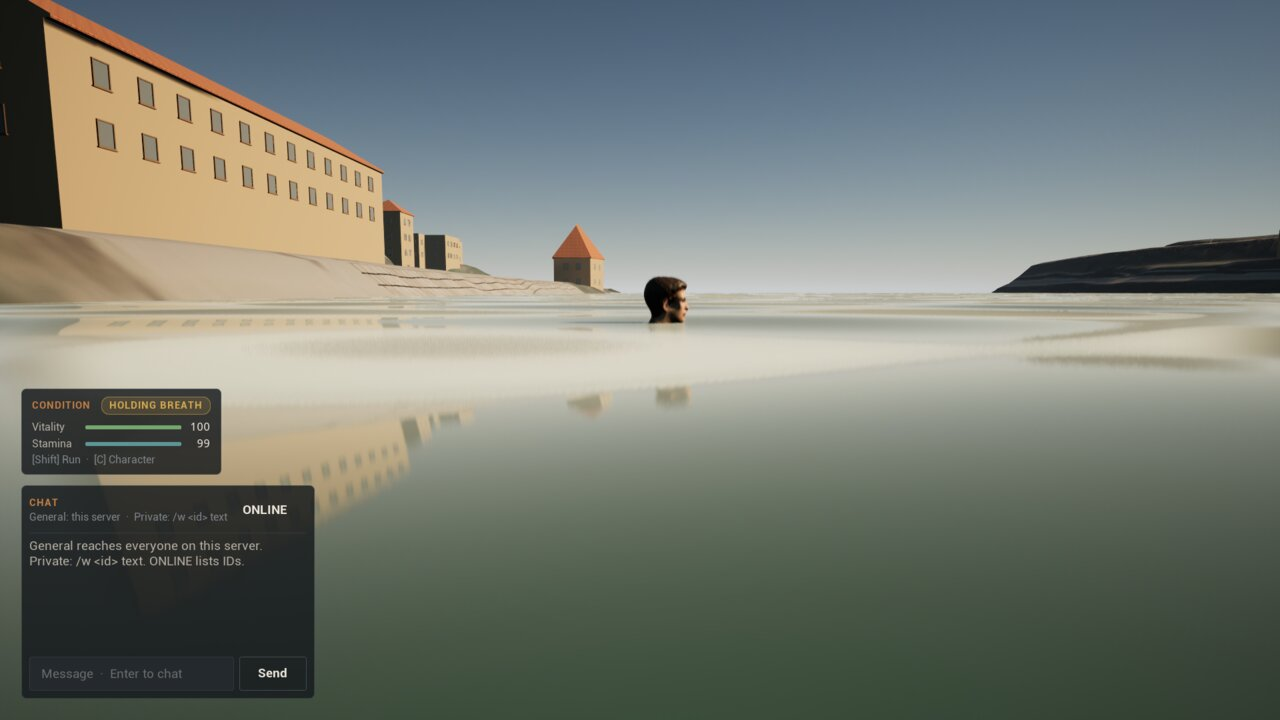
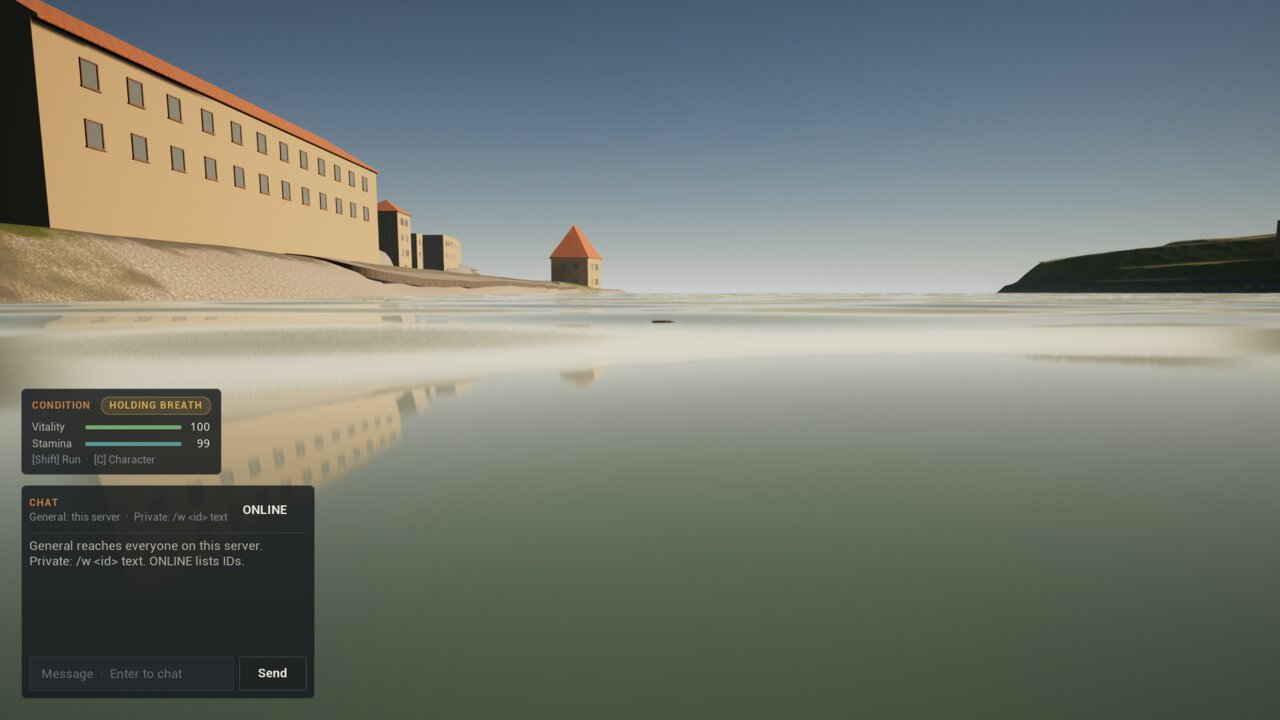
fix: the drawn legs follow the swim clips; key the IK foot bones (ADR-042)
The playtest swimmer still looked as if it were drowning. The clips were
right, the drawn pose was not: ABP_Unarmed's foot IK runs after DefaultSlot
in every mode but falling and pulls each foot to ik_foot_l/r, which the
generated clips never keyed, so the legs stood under a body bent at the waist
(feet 85 cm under the pelvis in the running game). The opaque river hid it.

- MarburgumGodotClip::FollowFeetWithIkBones keys the IK foot bones onto the
  feet the clip draws; A_Swim and A_SwimTread are regenerated with it.
- Swim smoke: drawn bone heights at every event, the stroke's feet within
  40 cm of the pelvis and treading's more than 60 cm under it, and captures
  with the river sheet hidden. Passes both phases in editor mode.

diff --git a/Source/MarburgumIIClient/Private/MarburgumSwimSmokeSubsystem.cpp b/Source/MarburgumIIClient/Private/MarburgumSwimSmokeSubsystem.cpp
@@ -1,6 +1,9 @@
 #include "MarburgumSwimSmokeSubsystem.h"
 
+#include "Components/CapsuleComponent.h"
+#include "Components/SkeletalMeshComponent.h"
 #include "Engine/GameInstance.h"
+#include "Engine/StaticMeshActor.h"
 #include "Engine/World.h"
 #include "EngineUtils.h"
 #include "HAL/FileManager.h"
@@ -34,6 +37,10 @@ namespace MarburgumSwimSmoke
     // Swim speed is 1.1 m/s; generous for the start of a stroke and frame timing.
     constexpr double SwimMin = 0.85;
     constexpr double SwimMax = 1.35;
+    // Feet against pelvis in the drawn pose (ADR-042): lying along the water the clip keeps them within
+    // about 20 cm of it; a standing stance has them about 90 cm under it.
+    constexpr double LyingFeetUnderPelvisMaxCm = 40.0;
+    constexpr double UprightFeetUnderPelvisMinCm = 60.0;
     // A minute of breath per bar: ten seconds under costs about 16.7 points.
     constexpr double UnderSeconds = 10.0;
     constexpr int32 UnderCostMin = 13;
@@ -229,6 +236,52 @@ void UMarburgumSwimSmokeSubsystem::Report(const TCHAR* Event, double Now)
         Moving && Moving->IsSubmerged() ? 1 : 0, Moving ? Moving->GetStamina() : -1.f, Condition.bSwimming ? 1 : 0,
         Condition.bSubmerged ? 1 : 0, Condition.Stamina, Condition.Vitality, Condition.RecoverySeconds,
         Character && Character->IsSwimClipPlaying() ? 1 : 0, Character && Character->IsTreadingWater() ? 1 : 0, *HudState());
+    if (Character)
+    {
+        // The drawn pose, after the whole animation graph: bone heights above the capsule's feet. Lying
+        // along the water the feet are about as high as the pelvis; upright they are a metre under it.
+        const USkeletalMeshComponent* Mesh = Character->GetMesh();
+        const double Feet = At.Z - Character->GetCapsuleComponent()->GetScaledCapsuleHalfHeight();
+        const auto Height = [Mesh, Feet](const TCHAR* Bone) { return Mesh->GetBoneLocation(Bone).Z - Feet; };
+        MB2_SWIM_LOG("event=%s_pose pelvis=%.0f head=%.0f foot_l=%.0f foot_r=%.0f hand_l=%.0f", Event, Height(TEXT("pelvis")),
+            Height(TEXT("head")), Height(TEXT("foot_l")), Height(TEXT("foot_r")), Height(TEXT("hand_l")));
+    }
+}
+
+double UMarburgumSwimSmokeSubsystem::FeetUnderPelvisCm() const
+{
+    // The drawn pose after the whole animation graph, foot IK included (ADR-042).
+    const AMarburgumCharacter* Character = Body();
+    if (!Character)
+    {
+        return -1.0;
+    }
+    const USkeletalMeshComponent* Mesh = Character->GetMesh();
+    const double Feet = 0.5 * (Mesh->GetBoneLocation(TEXT("foot_l")).Z + Mesh->GetBoneLocation(TEXT("foot_r")).Z);
+    return Mesh->GetBoneLocation(TEXT("pelvis")).Z - Feet;
+}
+
+void UMarburgumSwimSmokeSubsystem::SetWaterSheetHidden(bool bHidden)
+{
+    // Evidence only: the river sheet is opaque, so the legs are drawn in a second capture without it.
+    // The sheet is the one wide static mesh whose top is the water surface.
+    UWorld* World = GetGameInstance() ? GetGameInstance()->GetWorld() : nullptr;
+    const UMarburgumCharacterMovement* Moving = Movement();
+    if (!World || !Moving)
+    {
+        return;
+    }
+    const float Surface = Moving->GetWaterSurfaceZ();
+    for (TActorIterator<AStaticMeshActor> It(World); It; ++It)
+    {
+        FVector Origin;
+        FVector Extent;
+        It->GetActorBounds(false, Origin, Extent);
+        if (FMath::Abs(Origin.Z + Extent.Z - Surface) < 10.0 && Extent.X > 2000.0 && Extent.Y > 2000.0 && Extent.Z < 50.0)
+        {
+            It->SetActorHiddenInGame(bHidden);
+        }
+    }
 }
 
 bool UMarburgumSwimSmokeSubsystem::Tick(float DeltaTime)
@@ -321,6 +374,8 @@ void UMarburgumSwimSmokeSubsystem::TickW(double Now)
         Expect(Condition.bSwimming && !Condition.bSubmerged, TEXT("server_swimmer_not_at_surface"));
         Expect(Character->IsSwimClipPlaying(), TEXT("swim_clip_not_playing"));
         Expect(!Character->IsTreadingWater(), TEXT("treading_while_swimming"));
+        // Lying along the water: the feet about as high as the pelvis, not a standing stance under it.
+        Expect(FeetUnderPelvisCm() < LyingFeetUnderPelvisMaxCm, FString::Printf(TEXT("legs_hanging=%.0f"), FeetUnderPelvisCm()));
         ExpectHud(TEXT("SWIMMING"), TEXT("swimming"));
         Shot(TEXT("swimming"));
         Advance(30, Now);
@@ -332,7 +387,19 @@ void UMarburgumSwimSmokeSubsystem::TickW(double Now)
             Local->SetControlRotation(FRotator(-6.f, 90.f, 0.f));
         }
         if (Now - StepSeconds < 0.6) return;
+        Report(TEXT("swimming_side"), Now);
         Shot(TEXT("swimming-side"));
+        Advance(33, Now);
+        return;
+    case 33:
+        // The same stroke with the river sheet hidden, so the legs show.
+        SetWaterSheetHidden(true);
+        if (Now - StepSeconds < 0.2) return;
+        Shot(TEXT("swimming-xray"));
+        Advance(34, Now);
+        return;
+    case 34:
+        SetWaterSheetHidden(false);
         Advance(3, Now);
         return;
     case 3:
@@ -351,7 +418,19 @@ void UMarburgumSwimSmokeSubsystem::TickW(double Now)
         }
         if (Now - StepSeconds < 0.5) return;
         Report(TEXT("treading"), Now);
+        // Upright: the feet hang under the pelvis.
+        Expect(FeetUnderPelvisCm() > UprightFeetUnderPelvisMinCm, FString::Printf(TEXT("not_upright=%.0f"), FeetUnderPelvisCm()));
         Shot(TEXT("treading"));
+        Advance(35, Now);
+        return;
+    case 35:
+        SetWaterSheetHidden(true);
+        if (Now - StepSeconds < 0.2) return;
+        Shot(TEXT("treading-xray"));
+        Advance(36, Now);
+        return;
+    case 36:
+        SetWaterSheetHidden(false);
         Advance(32, Now);
         return;
     case 32:

diff --git a/Source/MarburgumIIEditorTools/Private/MarburgumGodotClip.cpp b/Source/MarburgumIIEditorTools/Private/MarburgumGodotClip.cpp
@@ -418,4 +418,70 @@ namespace MarburgumGodotClip
                 Torso.X, Torso.Y, Torso.Z, ArmL.X, ArmL.Y, ArmL.Z, ArmR.X, ArmR.Y, ArmR.Z, LegL.X, LegL.Y, LegL.Z);
         }
     }
+
+    bool FollowFeetWithIkBones(const FReferenceSkeleton& Reference, int32 Frames, TMap<FName, TArray<FVector>>& Positions,
+        TMap<FName, TArray<FQuat>>& Rotations, TMap<FName, TArray<FVector>>& Scales, const TCHAR* LogTag)
+    {
+        const int32 BoneCount = Reference.GetRawBoneNum();
+        const TArray<FTransform>& LocalRest = Reference.GetRawRefBonePose();
+        const int32 IkRoot = Reference.FindRawBoneIndex(TEXT("ik_foot_root"));
+        const TPair<FName, FName> Feet[] = { { TEXT("foot_l"), TEXT("ik_foot_l") }, { TEXT("foot_r"), TEXT("ik_foot_r") } };
+        if (IkRoot == INDEX_NONE)
+        {
+            UE_LOG(LogMarburgumGodotClip, Error, TEXT("%s mannequin has no bone ik_foot_root"), LogTag);
+            return false;
+        }
+        for (const TPair<FName, FName>& Foot : Feet)
+        {
+            if (Reference.FindRawBoneIndex(Foot.Key) == INDEX_NONE || Reference.FindRawBoneIndex(Foot.Value) == INDEX_NONE)
+            {
+                UE_LOG(LogMarburgumGodotClip, Error, TEXT("%s mannequin has no bone %s or %s"), LogTag, *Foot.Key.ToString(),
+                    *Foot.Value.ToString());
+                return false;
+            }
+        }
+        // Any keys the IK bones had are replaced; they are written after every frame is read.
+        for (const TPair<FName, FName>& Foot : Feet)
+        {
+            Positions.Remove(Foot.Value);
+            Rotations.Remove(Foot.Value);
+            Scales.Remove(Foot.Value);
+        }
+        TMap<FName, TArray<FVector>> IkPositions;
+        TMap<FName, TArray<FQuat>> IkRotations;
+        for (int32 Frame = 0; Frame <= Frames; ++Frame)
+        {
+            // Component space at this frame: keyed bones take their keys, the rest their reference pose.
+            TArray<FTransform> Global;
+            Global.SetNum(BoneCount);
+            for (int32 Bone = 0; Bone < BoneCount; ++Bone)
+            {
+                const FName Name = Reference.GetBoneName(Bone);
+                FTransform Local = LocalRest[Bone];
+                if (const TArray<FQuat>* Keyed = Rotations.Find(Name))
+                {
+                    Local = FTransform((*Keyed)[Frame], Positions[Name][Frame], Scales[Name][Frame]);
+                }
+                const int32 Parent = Reference.GetRawParentIndex(Bone);
+                Global[Bone] = Parent == INDEX_NONE ? Local : Local * Global[Parent];
+            }
+            for (const TPair<FName, FName>& Foot : Feet)
+            {
+                const int32 Bone = Reference.FindRawBoneIndex(Foot.Value);
+                const int32 Parent = Reference.GetRawParentIndex(Bone);
+                const FTransform Local = Global[Reference.FindRawBoneIndex(Foot.Key)].GetRelativeTransform(Global[Parent]);
+                IkPositions.FindOrAdd(Foot.Value).Add(Local.GetLocation());
+                IkRotations.FindOrAdd(Foot.Value).Add(Local.GetRotation().GetNormalized());
+            }
+        }
+        for (const TPair<FName, FName>& Foot : Feet)
+        {
+            const FVector Scale = LocalRest[Reference.FindRawBoneIndex(Foot.Value)].GetScale3D();
+            Positions.Add(Foot.Value, IkPositions[Foot.Value]);
+            Rotations.Add(Foot.Value, IkRotations[Foot.Value]);
+            Scales.Add(Foot.Value, TArray<FVector>());
+            Scales[Foot.Value].Init(Scale, Frames + 1);
+        }
+        return true;
+    }
 }

diff --git a/Source/MarburgumIIEditorTools/Private/MarburgumSwimContentCommandlet.cpp b/Source/MarburgumIIEditorTools/Private/MarburgumSwimContentCommandlet.cpp
@@ -19,6 +19,7 @@
 #include "FileHelpers.h"
 #include "GameFramework/PhysicsVolume.h"
 #include "Landscape.h"
+#include "MarburgumGodotClip.h"
 #include "Misc/PackageName.h"
 #include "UObject/Package.h"
 
@@ -399,6 +400,12 @@ namespace
             }
         }
 
+        // The template's foot IK pulls each foot to its IK bone, so those bones follow the drawn feet (ADR-042).
+        if (!MarburgumGodotClip::FollowFeetWithIkBones(Reference, Frames, Positions, Rotations, Scales, TEXT("MB2SWIM")))
+        {
+            return false;
+        }
+
         UObject* Existing = nullptr;
         UPackage* Package = PreparePackage(Clip.Package, UAnimSequence::StaticClass(), Existing);
         UAnimSequence* Sequence = Cast<UAnimSequence>(Existing);
@@ -418,7 +425,7 @@ namespace
         Controller.RemoveAllBoneTracks(false);
         Controller.SetFrameRate(FFrameRate(FramesPerSecond, 1), false);
         Controller.SetNumberOfFrames(FFrameNumber(Frames), false);
-        for (const TPair<FName, FString>& Pair : MannequinToGodot)
+        for (const TPair<FName, TArray<FQuat>>& Pair : Rotations)
         {
             Controller.AddBoneCurve(Pair.Key, false);
             if (!Controller.SetBoneTrackKeys(Pair.Key, Positions[Pair.Key], Rotations[Pair.Key], Scales[Pair.Key], false))
@@ -440,7 +447,7 @@ namespace
             return false;
         }
         UE_LOG(LogMarburgumSwim, Display, TEXT("MB2SWIM saved %s frames=%d length=%.2fs tracks=%d"), Clip.Package, Frames,
-            Sequence->GetPlayLength(), MannequinToGodot.Num());
+            Sequence->GetPlayLength(), Rotations.Num());
 
         // Evidence: limb directions read back from the saved clip, in the original's model axes (x right,
         // y up, z back), to compare with the same directions computed from the original's own clip.
@@ -458,7 +465,7 @@ namespace
             for (int32 Bone = 0; Bone < BoneCount; ++Bone)
             {
                 FTransform Local = LocalRest[Bone];
-                if (MannequinToGodot.Contains(Reference.GetBoneName(Bone)))
+                if (Rotations.Contains(Reference.GetBoneName(Bone)))
                 {
                     Sequence->GetBoneTransform(Local, FSkeletonPoseBoneIndex(Bone), FAnimExtractContext(T), true);
                 }

diff --git a/Source/MarburgumIIEditorTools/Private/MarburgumGodotClip.h b/Source/MarburgumIIEditorTools/Private/MarburgumGodotClip.h
@@ -66,6 +66,17 @@ namespace MarburgumGodotClip
      */
     FVector SampleTimed(const TArray<FVector>& Keys, const TArray<double>& Times, double T);
 
+    /**
+     * Keys ik_foot_l and ik_foot_r onto the feet the clip draws (ADR-042). The template animation blueprint's
+     * foot IK (CR_Mannequin_FootIK) runs after the montage slot and pulls each foot to its IK bone; a clip
+     * that does not key those bones leaves them at the reference pose, under a standing body, so the legs
+     * are dragged down to a standing stance whatever the clip does. Positions, Rotations and Scales hold
+     * the clip's local keys per bone, Frames + 1 of each; a bone without keys is at its reference pose.
+     * Returns false (after logging under LogTag) when the skeleton lacks the bones.
+     */
+    bool FollowFeetWithIkBones(const FReferenceSkeleton& Reference, int32 Frames, TMap<FName, TArray<FVector>>& Positions,
+        TMap<FName, TArray<FQuat>>& Rotations, TMap<FName, TArray<FVector>>& Scales, const TCHAR* LogTag);
+
     /** Builds the clip on SK_Mannequin and saves it; nullptr (after logging under LogTag) on failure. */
     UAnimSequence* Build(const FClip& Clip, const TCHAR* LogTag);
 

diff --git a/Source/MarburgumIIClient/Public/MarburgumSwimSmokeSubsystem.h b/Source/MarburgumIIClient/Public/MarburgumSwimSmokeSubsystem.h
@@ -56,6 +56,8 @@ private:
     FString HudState() const;
     void ExpectHud(const TCHAR* Prefix, const TCHAR* What);
     void Advance(int32 Next, double Now);
+    void SetWaterSheetHidden(bool bHidden);
+    double FeetUnderPelvisCm() const;
     void Report(const TCHAR* Event, double Now);
     void Pass();
     void Fail(const FString& Reason);

diff --git a/Docs/DECISIONS.md b/Docs/DECISIONS.md
@@ -259,7 +259,7 @@ This closes the rasterizer-licence question for this character. It stays open fo
 
 - **A prone pose with a flutter kick replaces the original's body and leg keys** in `-Steps=animation`. The hips pitch 77° (`Hips` X −1.35), the spine arches 3° back up and the upper chest follows the spine, so the chest is at 74°, close to the original's 70°. The original arm stroke is unchanged and still reaches ahead of the head. The head comes back up 0.8 rad so the face looks ahead. The thighs kick between +0.05 and −0.25 rad and the knees bend between 0.1 and 0.4 rad on the up beat, twice a cycle. The other leg is a quarter cycle behind, so the legs alternate; in the original they moved together. The hip sway and bob are the original's.
 - **The drawn body is lifted 32 cm while it swims** (`SwimLiftCm`, was 20). Read back from the saved clip, the pelvis is 94–98 cm and the head joint 113–117 cm above the feet. While steering, the surface is 140 cm above the feet, so the back is about 10 cm under the surface and the face is out. The mouth rule and the movement are unchanged.
-- **Evidence.** Read back from the saved clip at the four key times, the torso points 17° above horizontal and each leg 13° above or below it, in opposite phase. The commandlet now also logs bone heights. `scripts/swim-smoke-linux.sh editor` passes with the new clip; the rendered swimmer shows the head and shoulders out and the back along the surface.
+- **Evidence.** Read back from the saved clip at the four key times, the torso points 17° above horizontal and each leg 13° above or below it, in opposite phase. The commandlet now also logs bone heights. `scripts/swim-smoke-linux.sh editor` passes with the new clip; the rendered swimmer shows the head and shoulders out and the back along the surface. (The drawn legs did not follow the clip until ADR-042.)
 
 **Not covered.** Owner playtest. Treading water (ADR-036). The river surface is opaque, so the captures do not show the legs.
 
@@ -460,3 +460,14 @@ All 476,517 pass: 0 landscape hits, 0 height mismatches over 1 cm, 0 capsules su
 - **Evidence.** `scripts/combat-smoke-linux.sh` runs a dedicated server on `/Game/World/lent`, a client that is beaten down and a rendered client that fights the drinker to the floor ([evidence](STAGE1_COMBAT_EVIDENCE.md)).
 
 **Not covered.** Owner playtest. Fighting other players (the original had none). Weapons, the Tabor walkers (no Tabor map), perception (NPCs noticing a fight at a distance), arrests and any consequence of violence beyond the fight itself; hit reactions on the struck body (the original's were placeholders); NPC navigation meshes (fighters steer straight and sidestep, they do not path round buildings); saving NPC condition across a server restart.
+
+## ADR-042 — Generated clips key the IK foot bones (accepted 2026-11-11)
+
+**Problem.** In the owner's playtest the swimmer still looked as if it were drowning, after ADR-033 and ADR-036. The clips were right: read back from the saved assets, A_Swim lies along the water. The drawn pose was not. `ABP_Unarmed` runs the template's foot IK, `CR_Mannequin_FootIK`, after `DefaultSlot`, and it stays on in every movement mode except falling. It pulls each foot to `ik_foot_l` and `ik_foot_r`. The generated clips never keyed those bones, so they stayed at the reference pose, under a standing body. Measured in the running game, the stroke's feet were 85 cm under the pelvis, both at the IK bones' height. With the river sheet hidden, the swimmer was bent at the waist over straight, standing legs. The opaque river had hidden that from every capture, and the evidence checked the clip asset, not the drawn pose.
+
+**Decision.**
+
+- **Generated clips key `ik_foot_l` and `ik_foot_r` onto the feet they draw.** `MarburgumGodotClip::FollowFeetWithIkBones` computes each frame's component-space feet from the clip's keys and writes the IK bones, under the unmoved `ik_foot_root`, to the same transforms. The foot IK then holds the feet where the clip put them. `A_Swim` and `A_SwimTread` are regenerated with it. The animation blueprint and the foot IK are unchanged, so walking keeps its foot placement.
+- **The swim smoke checks the drawn pose.** It logs pelvis, head, feet and hand heights above the capsule's feet at every event, read from the mesh after the whole animation graph. It requires the stroke's feet within 40 cm of the pelvis and treading water's more than 60 cm under it. It also captures `swim-w-swimming-xray` and `swim-w-treading-xray` with the river sheet hidden.
+
+**Not covered.** The vehicle door clips and the fight clips (ADR-039, ADR-041) come from the same builder without the IK bones. Their feet are pulled to a standing stance too; they need `FollowFeetWithIkBones` in `MarburgumGodotClip::Build` and regenerating. The foot IK's ground trace still runs while swimming: in shallow water it could reach the bed. Owner playtest.

diff --git a/Docs/STAGE1_SWIM_EVIDENCE.md b/Docs/STAGE1_SWIM_EVIDENCE.md
@@ -58,7 +58,7 @@ Per [ADR-008](DECISIONS.md) the status is `implemented_awaiting_owner_playtest`.
 
 ## Captures
 
-The two swimming captures are from the ADR-033 rerun (`scripts/swim-smoke-linux.sh editor`, 2026-11-10, PASS): the prone pose with the body lifted 32 cm. The treading capture is from the ADR-036 rerun (editor, PASS), half a second after letting go. The others are from the packaged run above.
+The swimming and treading captures, and the two with the river sheet hidden, are from the ADR-042 rerun (`scripts/swim-smoke-linux.sh editor`, 2026-11-11, PASS): drawn feet 112–139 cm above the capsule's feet against a pelvis at 126 cm while stroking, 2–3 cm against 80 cm while treading. Before ADR-042 the foot IK held the stroke's feet 85 cm under the pelvis. The others are from the packaged run above.
 
 | | |
 | --- | --- |
@@ -68,6 +68,8 @@ The two swimming captures are from the ADR-033 rerun (`scripts/swim-smoke-linux.
 | Under, camera at the surface, HOLDING BREATH, stamina 83 | Wading out, the clip blending out |
 | ![treading](Captures/stage1-swim/swim-w-treading.jpg) | |
 | Let go: upright, treading water, slipping under (ADR-036) | |
+| ![swimming, river hidden](Captures/stage1-swim/swim-w-swimming-xray.jpg) | ![treading, river hidden](Captures/stage1-swim/swim-w-treading-xray.jpg) |
+| The stroke with the river sheet hidden: the legs lie along the body (ADR-042) | Treading water with the river sheet hidden |
 | ![down](Captures/stage1-swim/swim-w-down.jpg) | ![recovered](Captures/stage1-swim/swim-w2-recovered.jpg) |
 | Drowned, at the recovery point, DROWNED · 58 s | Phase 2, recovered and walking |
 
